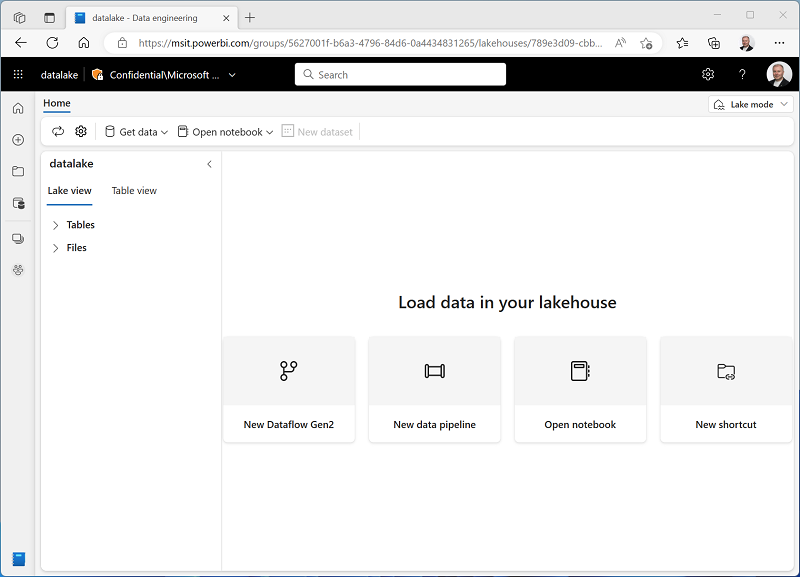
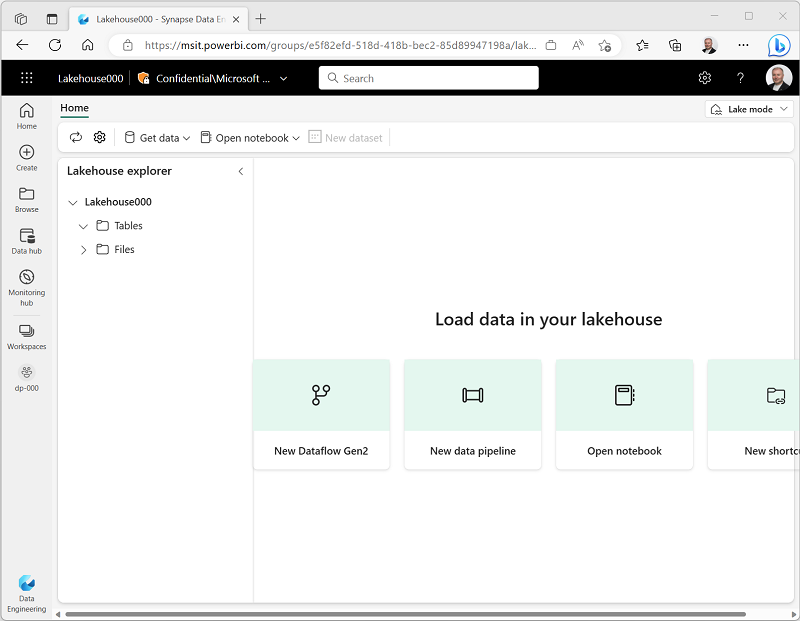
Updated UI

diff --git a/Instructions/Labs/00-lakehouse.md b/Instructions/Labs/00-lakehouse.md
@@ -50,11 +50,11 @@ Now that you have a workspace, it's time to switch to the *Data engineering* exp
 
     ![Screenshot of a new lakehouse.](./Images/new-lakehouse.png)
 
-3. View the new lakehouse, and note that the pane on the left provides two tabs in which you can browse data assets in the lakehouse:
-    - The **Lake view** tab enables you to view files in the OneLake storage for the lakehouse. Files that are associated with managed tables are shown in the **Tables** section, while other data files are shown in the **Files** section.
-    - The **Table view** tab shows the managed tables defined in the Delta Lake metastore for the lakehouse.
+3. View the new lakehouse, and note that the **Lakehouse explorer** pane on the left enables you to browse tables and files in the lakehouse:
+    - The **Tables** folder contains relational abstractions over files that you can query using SQL semantics. Tables in a Microsoft Fabric lakehouse are based on the open source *Delta* file format, commonly used in Apache Spark.
+    - The **Files** folder contains data files in the OneLake storage for the lakehouse that are not associated with managed delta tables.
 
-    Currently, there are no files or tables in the lakehouse.
+    Currently, there are no tables or files in the lakehouse.
 
 ## Load data into the lakehouse
 
@@ -64,11 +64,11 @@ There are multiple ways to load data into the lakehouse.
 
 One of the simplest ways to ingest small amounts of data into the lakehouse is to upload files or folders from your local computer.
 
-1. Download the **sales.csv** file from [https://raw.githubusercontent.com/MicrosoftLearning/dp-data/main/orders.csv](https://raw.githubusercontent.com/MicrosoftLearning/dp-data/main/orders.csv), saving it as **orders.csv** on your local computer
-2. Return to the web browser tab containing your lakehouse, and in the **...** menu for the **Files** node in the **Lake view** pane, select **Upload** and **Upload file**, and then upload the **orders.csv** file from your local computer to the lakehouse.
+1. Download the **orders.csv** file from [https://raw.githubusercontent.com/MicrosoftLearning/dp-data/main/orders.csv](https://raw.githubusercontent.com/MicrosoftLearning/dp-data/main/orders.csv), saving it as **orders.csv** on your local computer
+2. Return to the web browser tab containing your lakehouse, and in the **...** menu for the **Files** folder in the **Lakehouse explorer** pane, select **Upload** and **Upload file**, and then upload the **orders.csv** file from your local computer to the lakehouse.
 3. After the file has been uploaded, select **Files** verify that the **orders.csv** file has been uploaded, as shown here:
 
-    ![Screenshot of uploaded sales.csv file in a lakehouse.](./Images/uploaded-file.png)
+    ![Screenshot of uploaded orders.csv file in a lakehouse.](./Images/uploaded-file.png)
 
 4. Select the **orders.csv** file to see a preview of its contents.
 
@@ -81,11 +81,11 @@ The sales data you uploaded is in a file, which data analysts and engineers can 
     After a few seconds, a new notebook containing a single *cell* will open. Notebooks are made up of one or more cells that can contain *code* or *markdown* (formatted text).
 
 2. Select the existing cell in the notebook, which contains some simple code, and then use its **&#128465;** (*Delete*) icon at its top-right to remove it - you will not need this code.
-3. In the pane on the left, select the **Files** list to reveal a new pane showing the **orders.csv** file you uploaded previously:
+3. In the pane on the left, select the **Files** list to reveal a new pane showing the **orders.csv** file you uploaded previously. Then, in the **...** menu for **orders.csv**, select **Load data** > **Spark**. 
 
     ![Screenshot of a notebook with a Files pane.](./Images/notebook-file.png)
 
-2. In the **...** menu for **orders.csv**, select **Load data** > **Spark**. A new code cell containing the following code should be added to the notebook:
+4. A new code cell containing the following code should be added to the notebook:
 
     ```python
     df = spark.read.format("csv").option("header","true").load("Files/orders.csv")
@@ -95,11 +95,11 @@ The sales data you uploaded is in a file, which data analysts and engineers can 
 
     > **Tip**: You can hide the pane containing the files on the left by using its **<** icon. Doing so will help you focus on the notebook.
 
-3. Use the **&#9655; Run cell** button on the left of the cell to run it.
+5. Use the **&#9655; Run cell** button on the left of the cell to run it.
 
-    > **Note**: Since this is the first time you've run any Spark code in this session, the Spark pool must be started. This means that the first run in the session can take a minute or so to complete. Subsequent runs will be quicker.
+    > **Note**: Since this is the first time you've run any Spark code in this session, a Spark session must be started. This means that the first run in the session can take a minute or so to complete. Subsequent runs will be quicker.
 
-4. When the cell command has completed, review the output below the cell, which should look similar to this:
+6. When the cell command has completed, review the output below the cell, which should look similar to this:
 
     |SalesOrderID|OrderDate|CustomerID|LineItem|ProductID|OrderQty|LineItemTotal|
     |---|---|---|---|---|---|---|
@@ -110,20 +110,24 @@ The sales data you uploaded is in a file, which data analysts and engineers can 
     |71780|2022-06-01|30113|2|983|2|923.39|
     |...|...|...|...|...|...|...|
 
-5. Under the output, use the **+ Code** button to add a new code cell to the notebook if an empty one does not already exist. Then add the following code to the new cell:
+7. Under the output, use the **+ Code** button to add a new code cell to the notebook if an empty one does not already exist. Then add the following code to the new cell:
 
     ```Python
     # Create a new table
     df.write.format("delta").saveAsTable("salesorders")
     ```
 
-6. Run the new code cell and wait for it to complete.
-7. In the navigation bar on the left edge of the portal, select **&#128447;** (*Browse*). Then, in the **Recent** category, select your lakehouse.
-8. In the **Lake view** pane, in the **...** menu for the **Tables** node, select **Refresh**. Then expand the **Tables** node and select the **salesorders** folder to view the files that have been created for the table data.
-9. Select the **Table view** tab, and verify that the **salesorders** table is listed in the metastore.
-10. Select the **salesorders** table to see a preview of the data it contains.
+8. Run the new code cell and wait for it to complete.
+9. In the navigation bar on the left edge of the portal, select **&#128447;** (*Browse*). Then, in the **Recent** category, select your lakehouse.
+10. In the **Lakehouse explorer** pane, in the **...** menu for the **Tables** folder, select **Refresh**. Then expand the **Tables** folder and select the **salesorders** table that has been created for the table data.
 
     ![Screenshot of a table preview.](./Images/table-preview.png)
+
+11. In the **...** menu for the **salesorders** table, select **View table files** to see the underlying files for this table
+
+    ![Screenshot of a table preview.](./Images/delta-table-files.png)
+
+    Files for a delta table are stored in *Parquet* format, and include a subfolder named **_delta_log** in which details of transactions applied to the table are logged.
 
 ### Copy data with a pipeline
 
@@ -177,39 +181,32 @@ When you need to regularly copy data from an external source into the lakehouse,
     ![Screenshot of a completed pipeline.](./Images/pipeline-completed.png)
 
 12. Close the browser tab containing the pipeline designer and return to the tab containing your lakehouse.
-13. On the **Home** page, select the **Table view** tab; and in the **...** menu for **Tables**, select **Refresh**.
-14. Verify that the **product** table has been created.
-15. Select the **product** table to see a preview of its data.
+13. In the **Lakehouse explorer** pane, in the **...** menu for **Tables**, select **Refresh** to see the **product** table created by the pipeline.
+
+    > **Tip**: If a folder named **Unrecognized** is shown, wait a few seconds and refresh again.
+
+14. Select the **product** table to see a preview of its data.
 
     ![Screenshot of the product table.](./Images/product-table.png)
 
-16. Select the **Lake view** tab and refresh the **Tables** section to see the folder for the **product** data files.
+## Use SQL to query tables
 
-    ![Screenshot of the files for the product table.](./Images/table-files.png)
-
-## Explore the default warehouse
-
-When you create a lakehouse and define tables in it, a default warehouse is automatically created to provide a SQL endpoint through which the tables can be queried using SQL `SELECT` statements.
+When you create a lakehouse and define tables in it, a SQL endpoint is automatically created through which the tables can be queried using SQL `SELECT` statements.
 
 ---
 *Currently, the read-only SQL endpoint for the lakehouse is called the "default warehouse". However, this will change to "SQL Endpoint" to avoid confusion with the "Data Warehouse" artifact type, which will be a fully transactional relational data warehouse. At that point, we'll need to update this section.*
 
 ---
 
-1. In the bar on the left, select the icon for your workspace to view all of the artifacts it contains:
+1. At the top-right of the Lakehouse page, switch from **Lake mode** to **Warehouse mode** as shown here:
 
     ![Screenshot of the workspace page.](./Images/workspace.png)
 
-2. Note that the workspace includes multiple assets with the name you assigned to the lakehouse. These include:
-    - The *lakehouse* itself
-    - A default *dataset* that can be used to build Power BI reports from the data in your lakehouse.
-    - A default *warehouse* that provides a SQL endpoint for the tables in your lakehouse.
-
-3. Select the default warehouse for your lakehouse. After a short time, it will open in a visual interface from which you can explore the tables in your lakehouse, as shown here:
+2. Wait a short time until the SQL query endpoint for your lakehouse opens in a visual interface from which you can query its tables, as shown here:
 
     ![Screenshot of the warehouse page.](./Images/warehouse.png)
 
-4. Use the **New SQL query** button to open a new query editor, and enter the following SQL query:
+3. Use the **New SQL query** button to open a new query editor, and enter the following SQL query:
 
     ```sql
     SELECT p.ProductName, COUNT(s.SalesOrderID) AS OrderCount
@@ -220,25 +217,36 @@ When you create a lakehouse and define tables in it, a default warehouse is auto
     ORDER BY p.ProductName
     ```
 
-5. Use the **&#9655; Run** button to run the query and view the results, which should show the number of orders placed for each product.
-6. At the top right of the page, use the drop-down menu to switch from **Warehouse mode** to **Lake mode** and note that this reverts the view to the page for your lakehouse, where you can manage the files containing your data.
+4. Use the **&#9655; Run** button to run the query and view the results, which should show the number of orders placed for each product.
 
-## Explore the default dataset
+## Create a report
 
-As you saw previously, creating and populating tables in a lakehouse automatically generated a default *dataset* that you can use as the basis for a Power BI data visualization.
+Creating and populating tables in a lakehouse automatically generated a default *dataset* that you can use as the basis for a Power BI data visualization.
 
-1. In the bar on the left, select the icon for your workspace to view all of the artifacts it contains.
+1. In the tabs at the bottom of the **Explorer** pane, select **Data**. Then at the top of the page, select the **Reporting** tab.
+2. In the **Reporting** menu, select **Manually update dataset**. Then select all of the tables in the lakehouse (**salesorders** and **product**) and confirm the update:
 
-2. Select the default dataset for your lakehouse. This opens the dataset as shown here:
+    ![Screenshot of the Update dataset page.](./Images/update-dataset.png)
 
-    ![Screenshot of the dataset page.](./Images/dataset.png)
+    ---
+    *This fails - for some reason it doesn't recognize the **product** table!*
 
-3. In the **Create a report** drop-down list, select **Auto-create** to create a new report based on the dataset. Then wait for the report to be generated.
+    ---
 
----
-*Currently, the default dataset is only refreshed when the first table is created - the second table (in this case products) is not included, and there's no apparent way to force a refresh!*
+3. In the tabs at the bottom of the **Explorer** pane, select **Model**.
 
----
+    ---
+    *When we get the model to refresh, we'll add steps here to create a relationship between the two tables.*
+
+    ---
+
+
+4. In the toolbar, select **New report**.
+
+    ---
+    *When the dataset refreshes, we'll add steps here to create a simple report.*
+
+    ---
 
 ## Clean up resources
 
